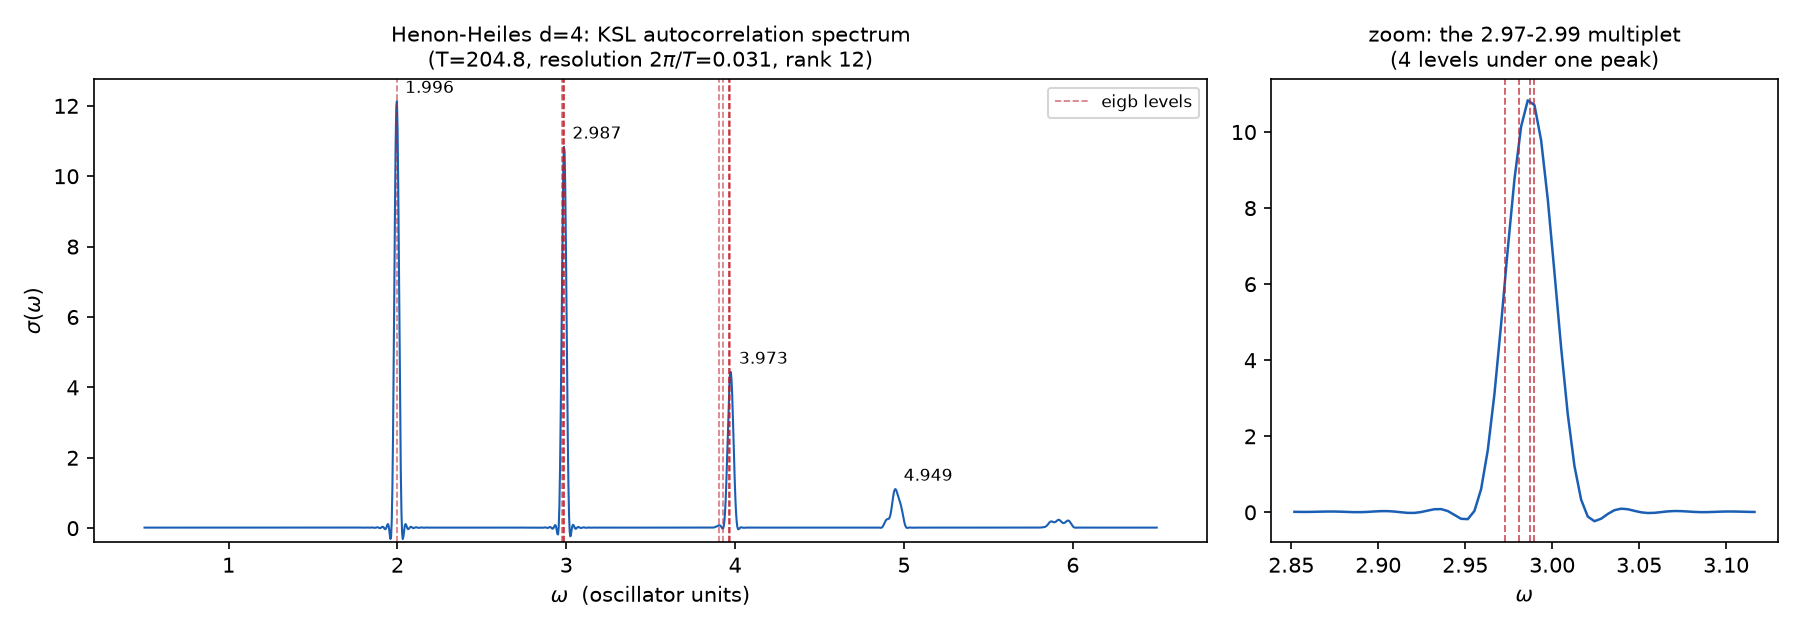
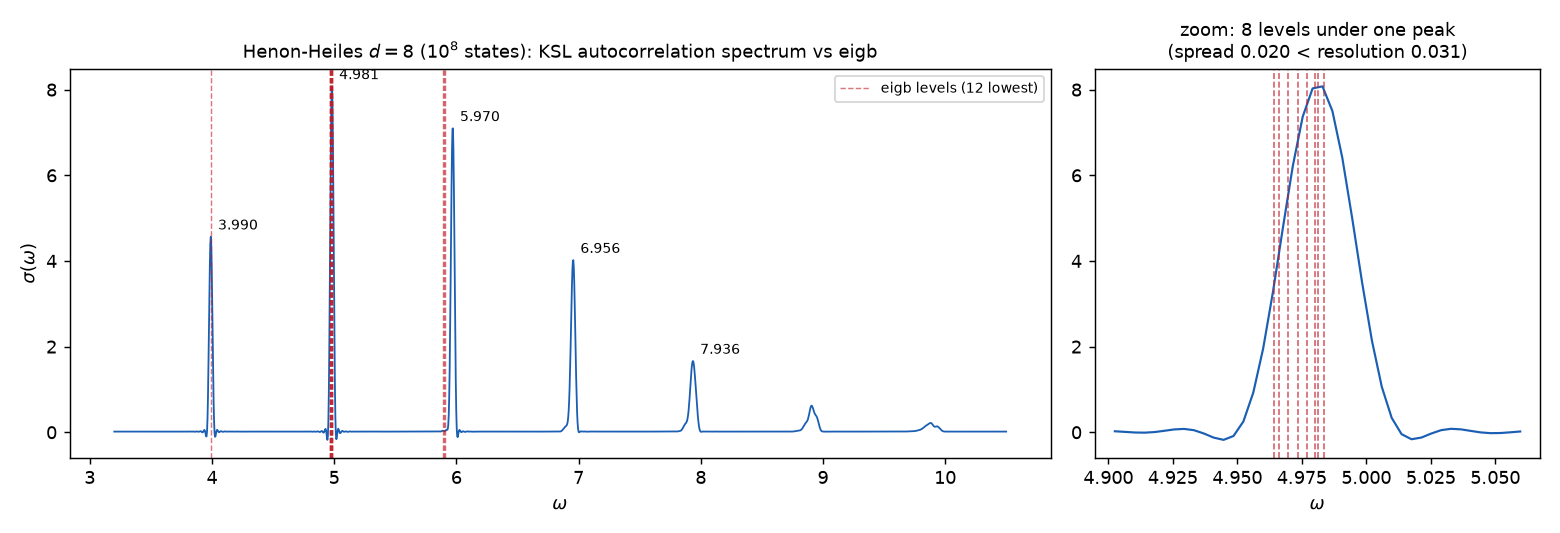
The eigb-checked spectrum example scaled to d=8: 1e8 states, no dense referee
The teaching-size d=4 preview is replaced by the d=8 run (100 s end to
end on 8 h200 cores): ground state 3.9900 agrees with eigb to 4.4e-6,
the eight quasi-degenerate levels 4.9640-4.9836 sit under one peak
matching to 5.8e-5, eigb's 12 levels take 29 s at 10^8 basis states --
a size where the trajectory transform and the block eigensolver are
each other's only referee.  Gallery cell and the literate page carry
the new numbers; the d=4 walkthrough on the page stays as the
teaching path.

diff --git a/examples/pages/henon_heiles_spectrum.md b/examples/pages/henon_heiles_spectrum.md
@@ -148,6 +148,26 @@ The default run takes about 36 s in the repository venv on a Mac laptop (34 s pr
 $ pytest tests/test_examples.py::test_spectrum_transform_recovers_planted_frequencies
 ```
 
+## The same run at $d=8$: beyond any dense oracle
+
+`python examples/henon_heiles_spectrum.py 8 10 16` runs the identical
+pipeline at $10^8$ basis states, where no dense eigensolver can follow.
+Measured on 8 cores of a shared h200 (100 s total, `eigb`'s 12 lowest
+levels in 29 s at TT ranks the block sweep chooses itself):
+
+| peak $\omega$ | height | nearest eigb | difference |
+|---|---|---|---|
+| 3.9900 | 4.57 | 3.9900 | 4.4e-06 |
+| 4.9814 | 8.08 | 4.9814 | -5.8e-05 |
+| 5.9701 | 7.10 | — | beyond the 12 computed levels |
+
+The 4.98 peak covers the *eight* quasi-degenerate levels
+4.9640–4.9836 (spread 0.020, below the $2\pi/T = 0.031$ resolution) —
+the same multiplet effect as at $d=4$, now with a denser ladder.  At this
+size the two TT methods are each other's only referee: the trajectory
+transform and the block eigensolver agree to $10^{-5}$ from completely
+different algorithms.
+
 ## References
 
 * I. V. Oseledets, DSc dissertation, Sec. 3.8 — this exact scheme (evolution + autocorrelation + FFT) for the Hénon–Heiles potential, there with a Strang-split QTT propagator; the KSL integrator replaces the step-and-round splitting.

diff --git a/examples/README.md b/examples/README.md
@@ -33,10 +33,13 @@ are the run's real log.  The resulting spectrum is
 <td>
 <img src="../docs/media/henon_heiles_spectrum.png" width="100%"><br>
 <b><a href="pages/henon_heiles_spectrum.md">henon_heiles_spectrum</a></b> (<a href="henon_heiles_spectrum.py">code</a>) — the same
-spectral method at teaching size: coherent packet, autocorrelation, windowed
-FFT; every peak is cross-checked against <code>eigb</code> on the same
-operator (ground state agrees to 1.2e-5).
-<i>Oracle: eigb + the quasi-degenerate multiplet structure.</i>
+spectral method with the eigensolver as the cross-check, at $d=8$ ($10^8$
+states, beyond any dense oracle): coherent packet, autocorrelation, windowed
+FFT; the ground state agrees with <code>eigb</code> to 4.4e-6 and the
+8-fold multiplet at 4.96–4.98 sits under one peak, matching to 5.8e-5.
+100 s end to end, eigb's 12 levels in 29 s.
+<i>Oracle: eigb on the same operator — two TT methods checking each other
+where neither has a dense referee.</i>
 </td>
 <td>
 <img src="../docs/media/fokker_planck_viscometric.png" width="100%"><br>
